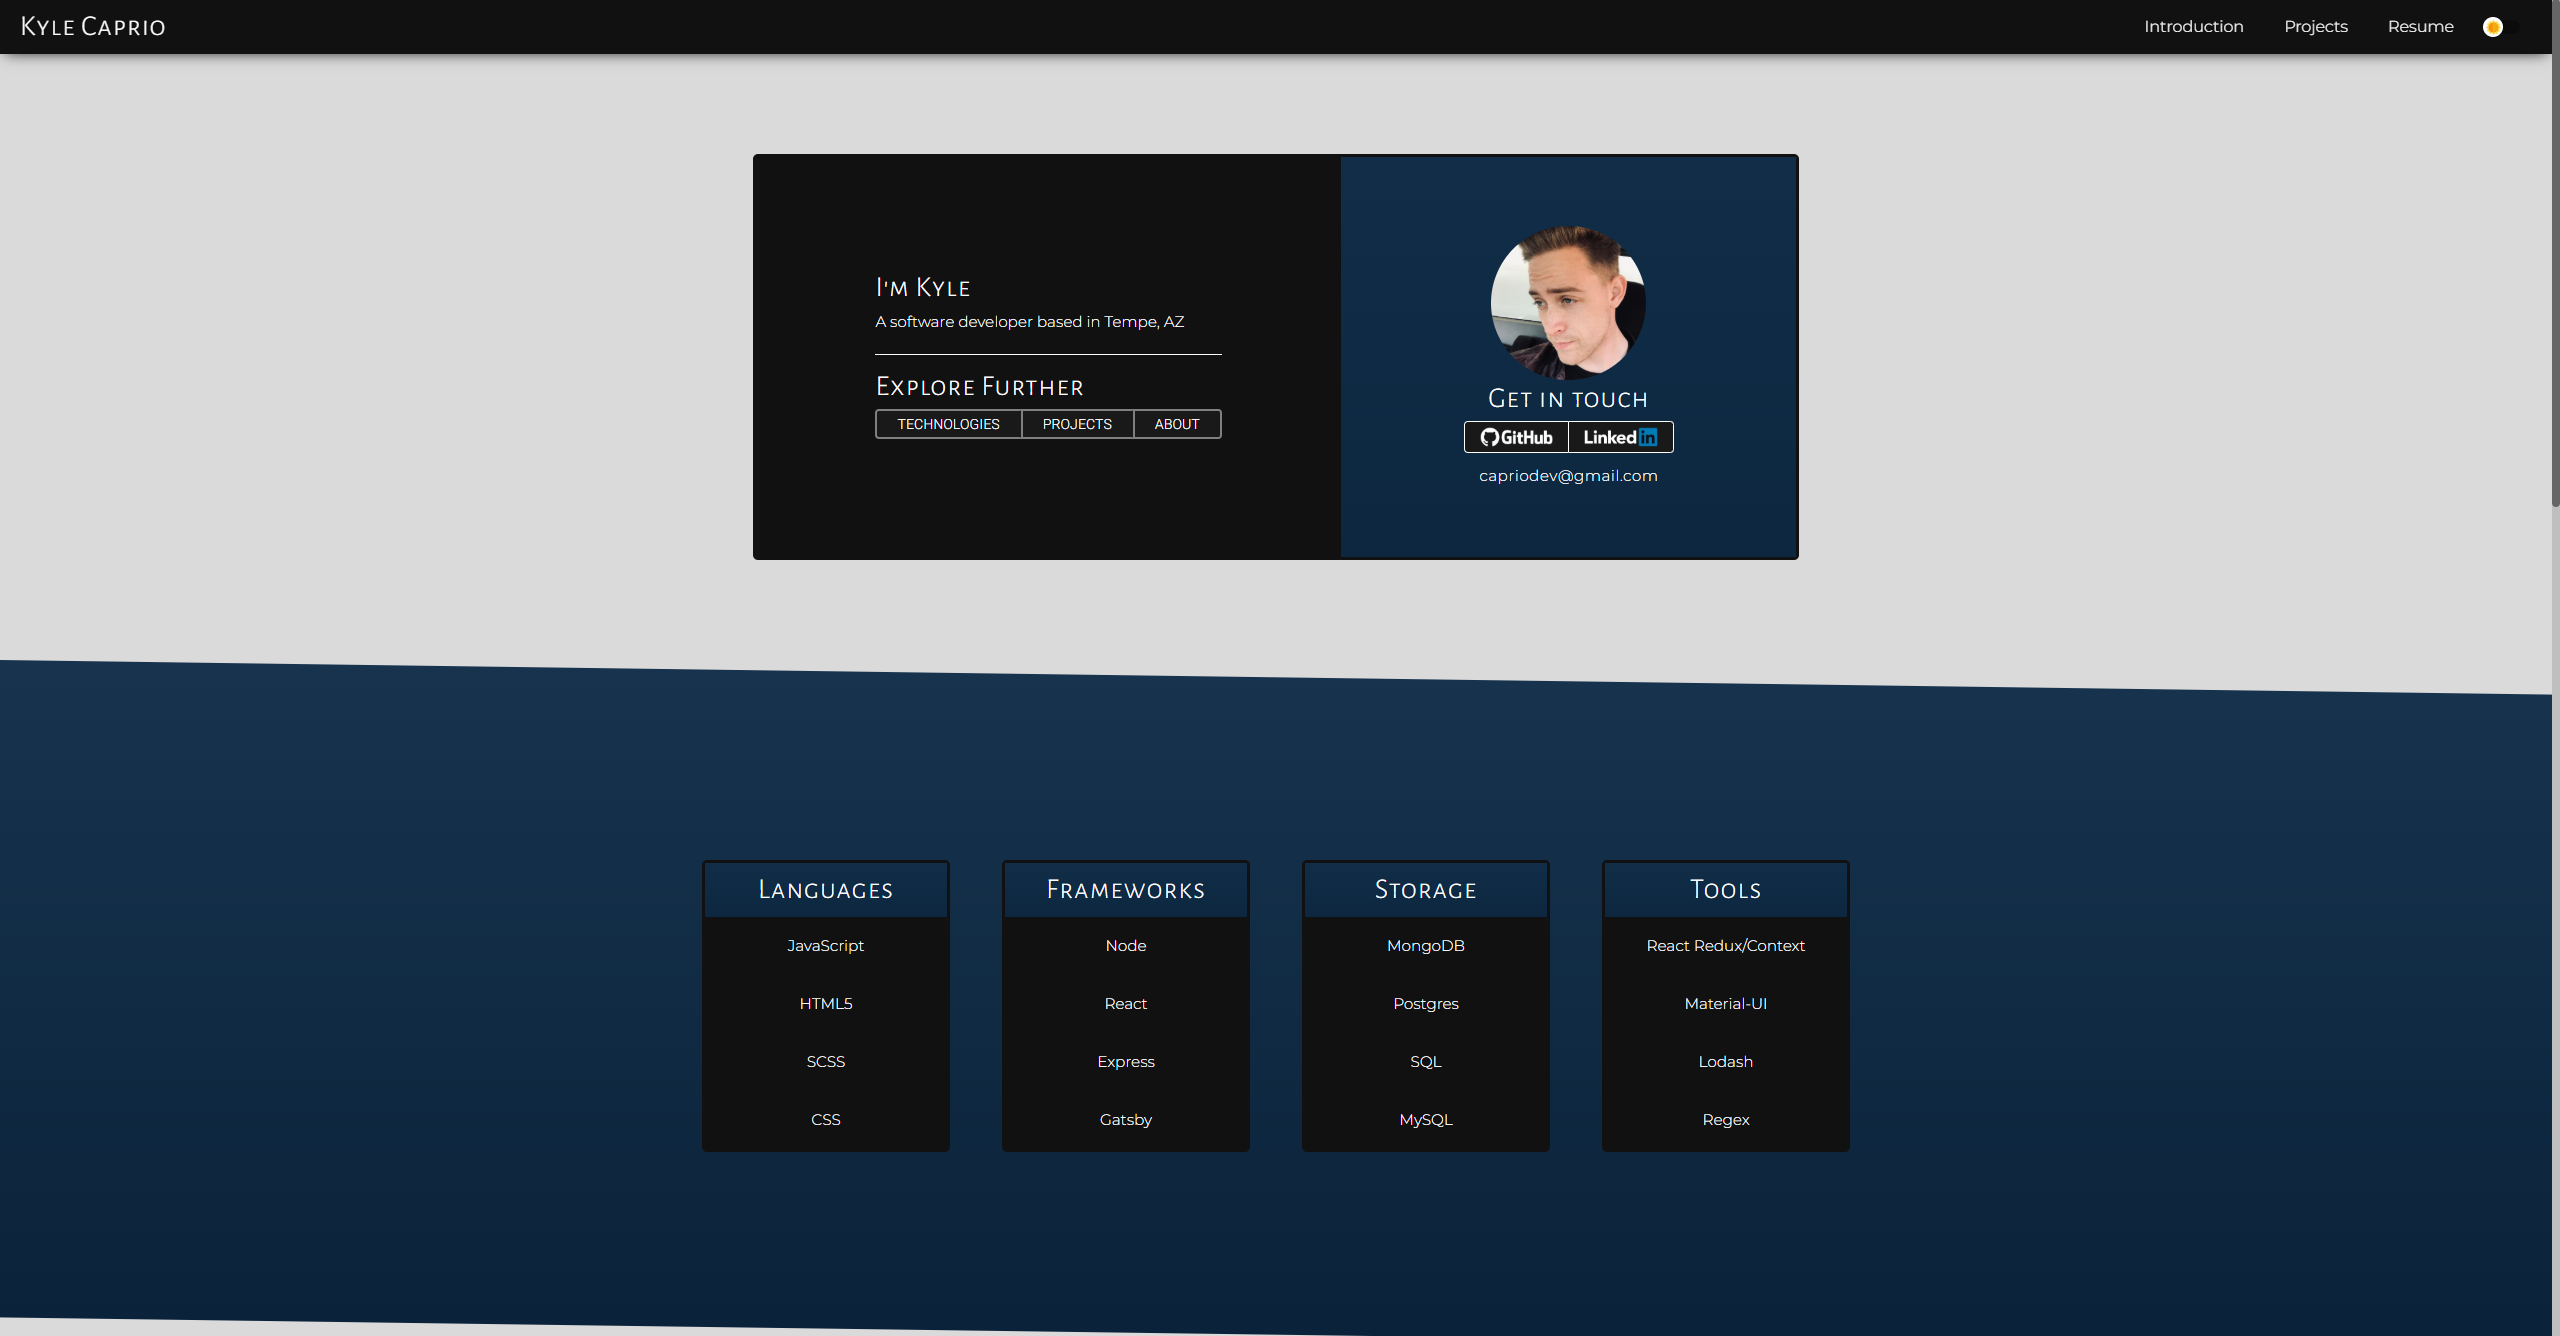
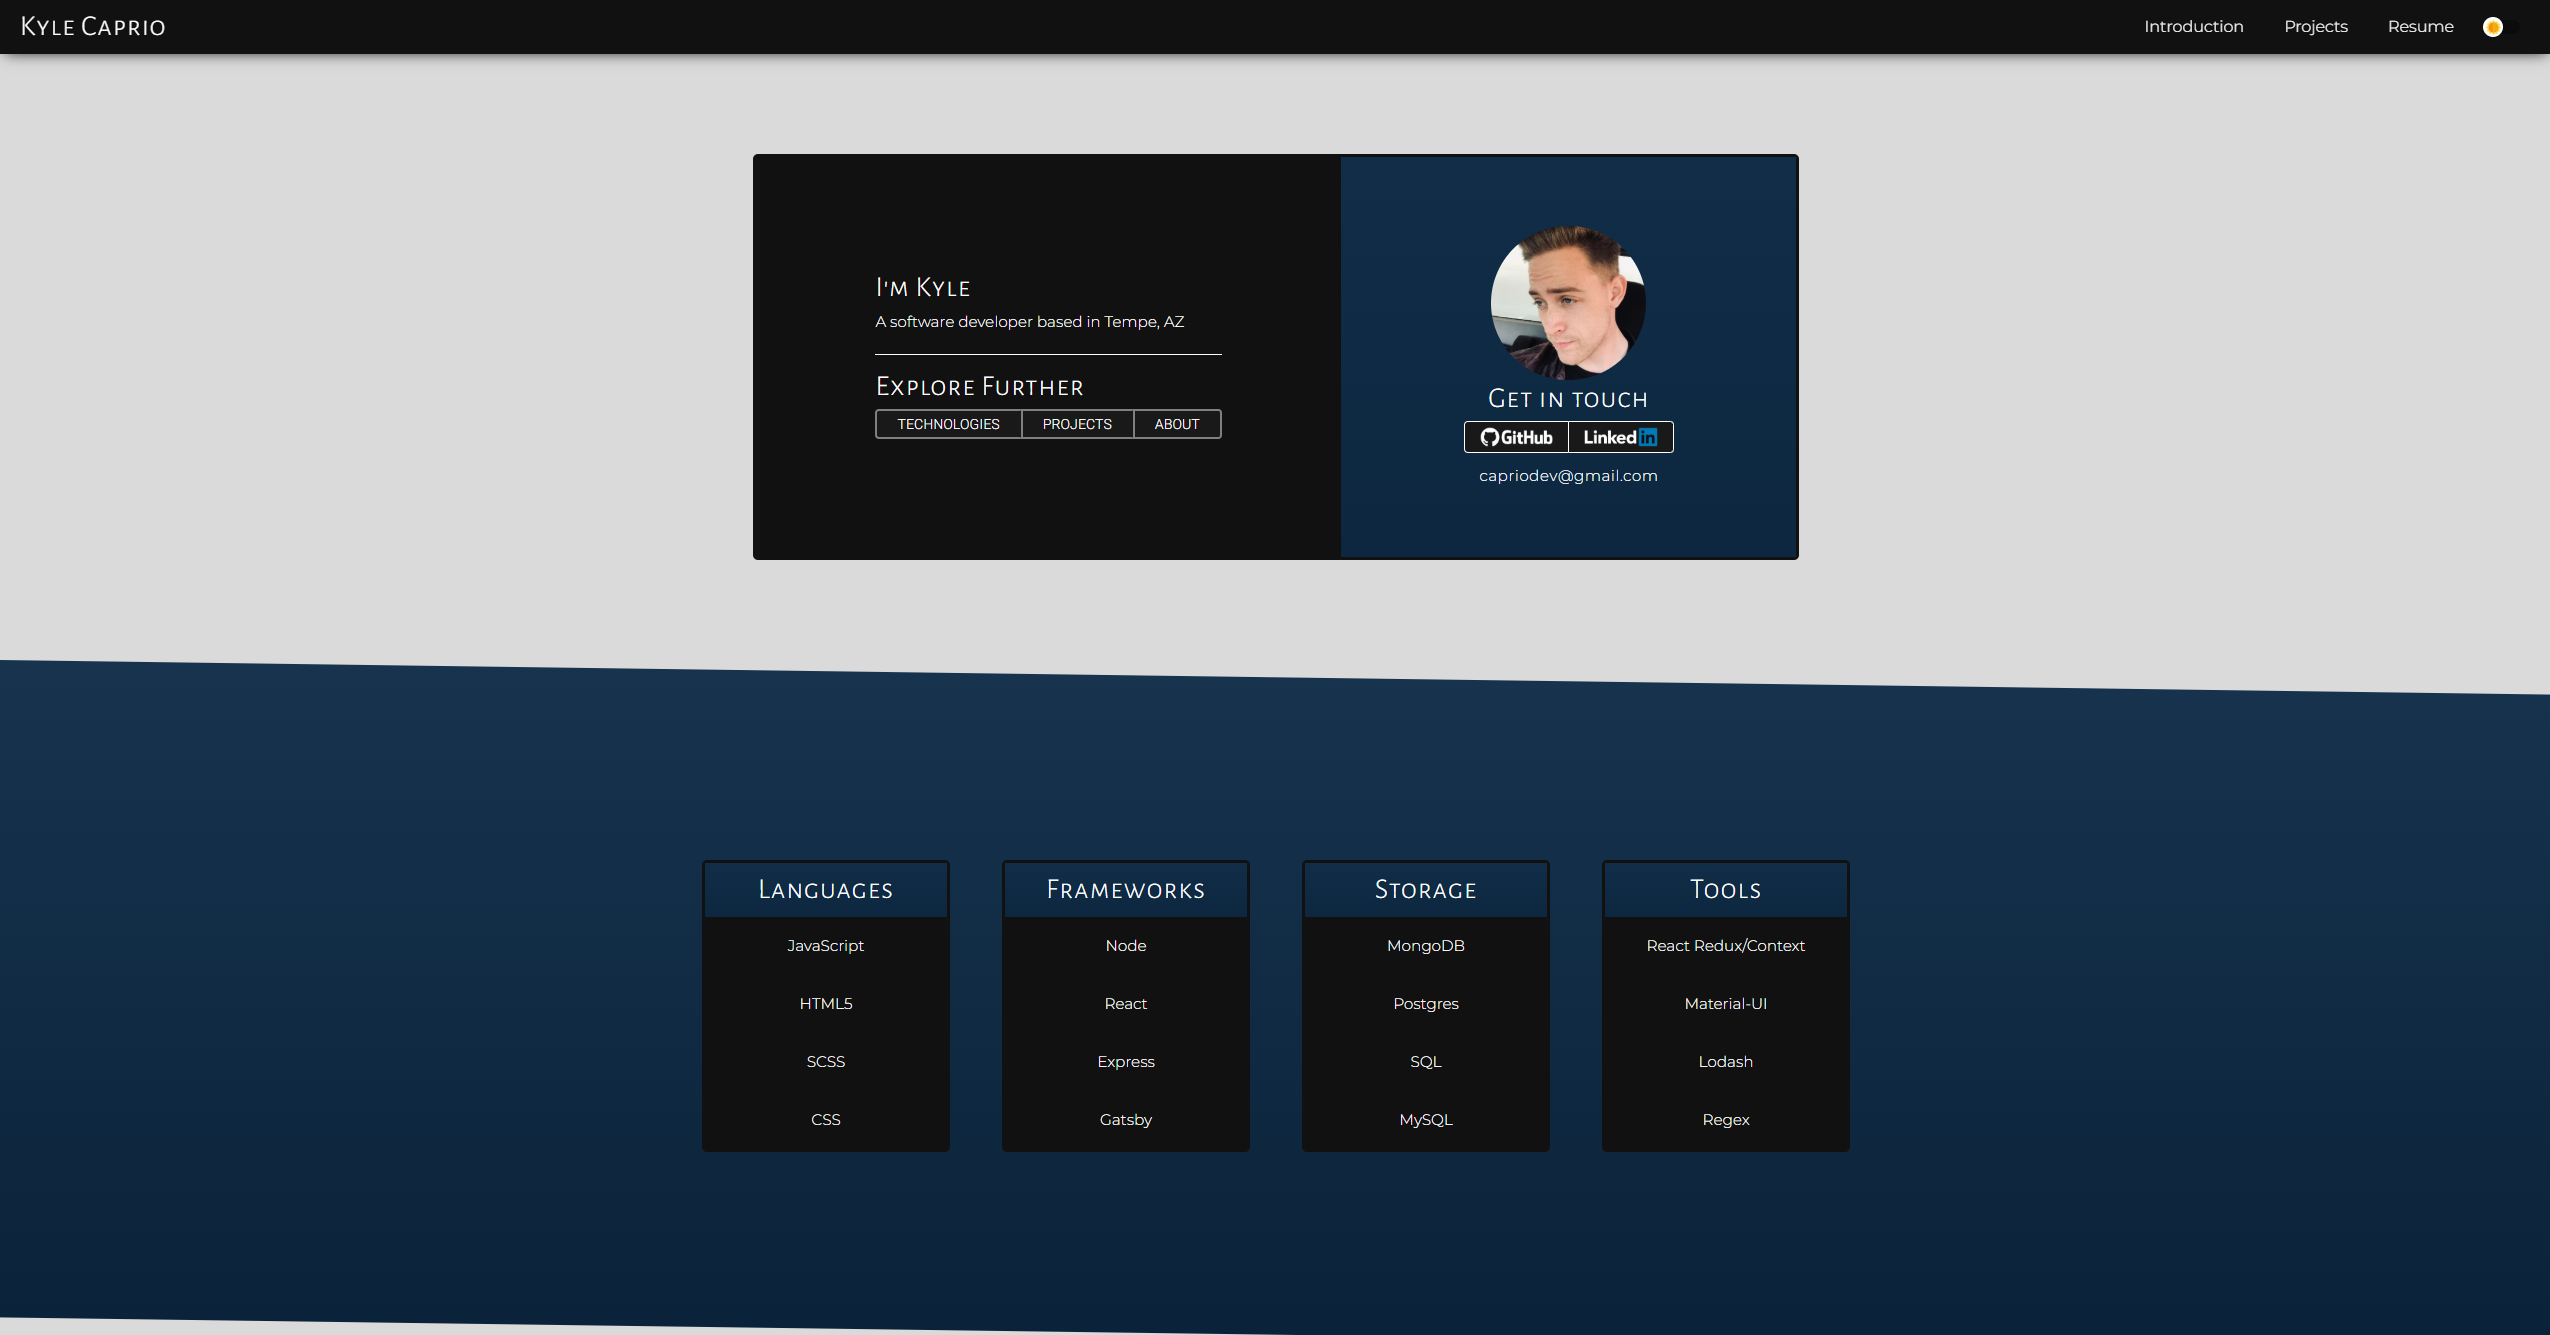
touches

diff --git a/src/components/intro.js b/src/components/intro.js
@@ -42,6 +42,11 @@ export default function Intro() {
               <div className="border" style={darkState ? { borderBottom: '1px solid white' } : {}}></div>
               <h1>Explore Further</h1>
               <ButtonGroup size="small" aria-label="small outlined button group">
+                <Button className={classes.navigation}>
+                  <Link className="button-text" to="/about">
+                    About
+                  </Link>
+                </Button>
                 <Button className={classes.navigation} href="#tech-section">
                   <div className="button-text">
                     Technologies
@@ -51,11 +56,6 @@ export default function Intro() {
                   <div className="button-text">
                     Projects
                   </div>
-                </Button>
-                <Button className={classes.navigation}>
-                  <Link className="button-text" to="/about">
-                    About
-                  </Link>
                 </Button>
               </ButtonGroup>
             </div>

diff --git a/src/index.js b/src/index.js
@@ -199,7 +199,7 @@ export function Index() {
         },
         tags: ['Javascript', 'React', 'Electron', 'CSS', '2019'],
         thumb: MTMUSIC_INIT,
-        slides: [MTMUSIC_INIT, MTMUSIC_GOOGLE, MTMUSIC_INIT, MTMUSIC_PLAYER, MTMUSIC_PLAYLISTS],
+        slides: [MTMUSIC_GOOGLE, MTMUSIC_INIT, MTMUSIC_PLAYER, MTMUSIC_PLAYLISTS],
         link: 'https://github.com/capriok/MyTube',
         demo: 'https://mytube-music.kylecaprio.dev',
         resources: ['https://developers.google.com/youtube/v3'],
